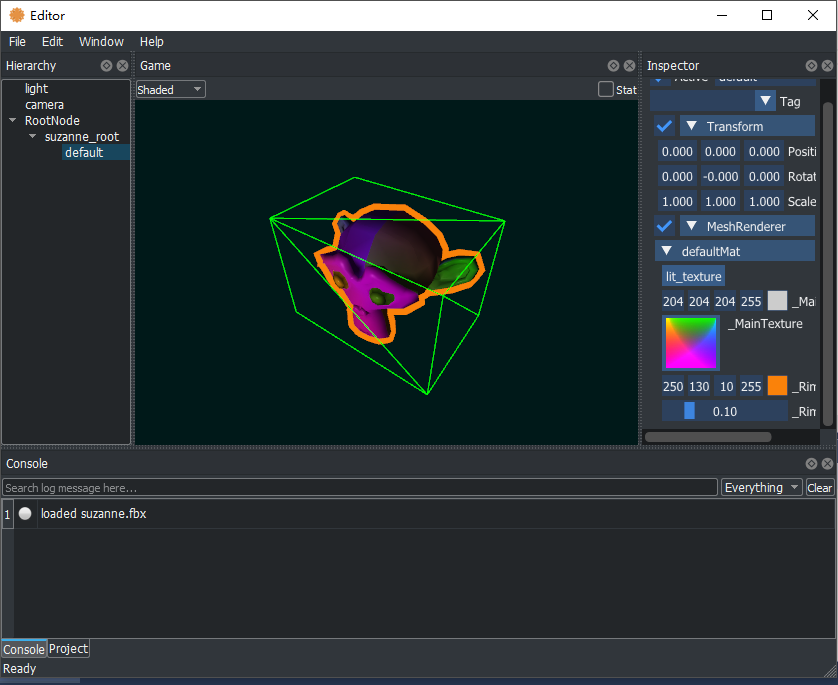
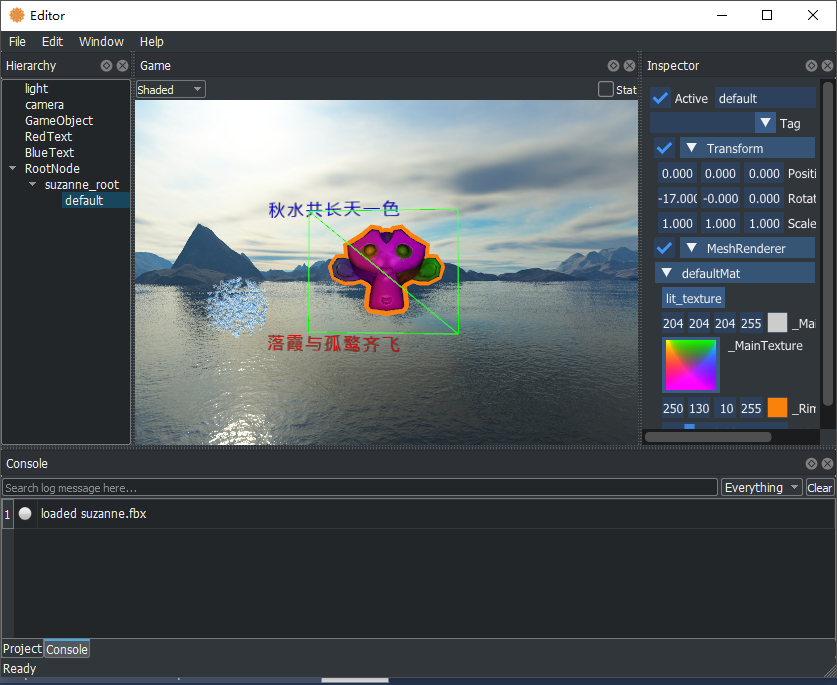
README

diff --git a/Engine/internal/base/materialinternal.cpp b/Engine/internal/base/materialinternal.cpp
@@ -9,6 +9,7 @@
 #include "internal/rendering/sharedtexturemanager.h"
 
 IMaterial::IMaterial() : IObject(MEMORY_NEW(MaterialInternal)) {}
+Object IMaterial::Clone() { return _suede_dptr()->Clone(); }
 void IMaterial::SetName(const std::string& value) { _suede_dptr()->SetName(value); }
 std::string IMaterial::GetName() const { return _suede_dptr()->GetName(); }
 void IMaterial::Bind(uint pass) { _suede_dptr()->Bind(pass); }

diff --git a/Editor/windows/game/game.cpp b/Editor/windows/game/game.cpp
@@ -36,15 +36,15 @@
 #include "scripts/cameracontroller.h"
 
 #define ROOM
-//#define SKYBOX
+#define SKYBOX
 //#define PROJECTOR
 //#define PROJECTOR_ORTHOGRAPHIC
 //#define BEAR
 //#define BEAR_X_RAY
 //#define IMAGE_EFFECTS
 //#define ANIMATION
-//#define PARTICLE_SYSTEM
-//#define FONT
+#define PARTICLE_SYSTEM
+#define FONT
 //#define BUMPED
 //#define NORMAL_VISUALIZER
 //#define DEFERRED_RENDERING

diff --git a/Engine/internal/base/fontinternal.h b/Engine/internal/base/fontinternal.h
@@ -14,7 +14,7 @@ DECL_FT_TYPE(FT_BitmapGlyph);
 
 #undef DECL_FT_TYPE
 
-class FontInternal : public IFont, public ObjectInternal {
+class FontInternal : public ObjectInternal {
 public:
 	FontInternal();
 	~FontInternal();

diff --git a/Engine/include/material.h b/Engine/include/material.h
@@ -22,6 +22,8 @@ public:
 	IMaterial();
 
 public:
+	Object Clone();
+
 	void SetName(const std::string& value);
 	std::string GetName() const;
 

diff --git a/README.md b/README.md
@@ -1,6 +1,6 @@
 # Suede
 
-#ScreenShots
+## ScreenShots
 ![Suede Overview][overview]
 
 ## Projects
